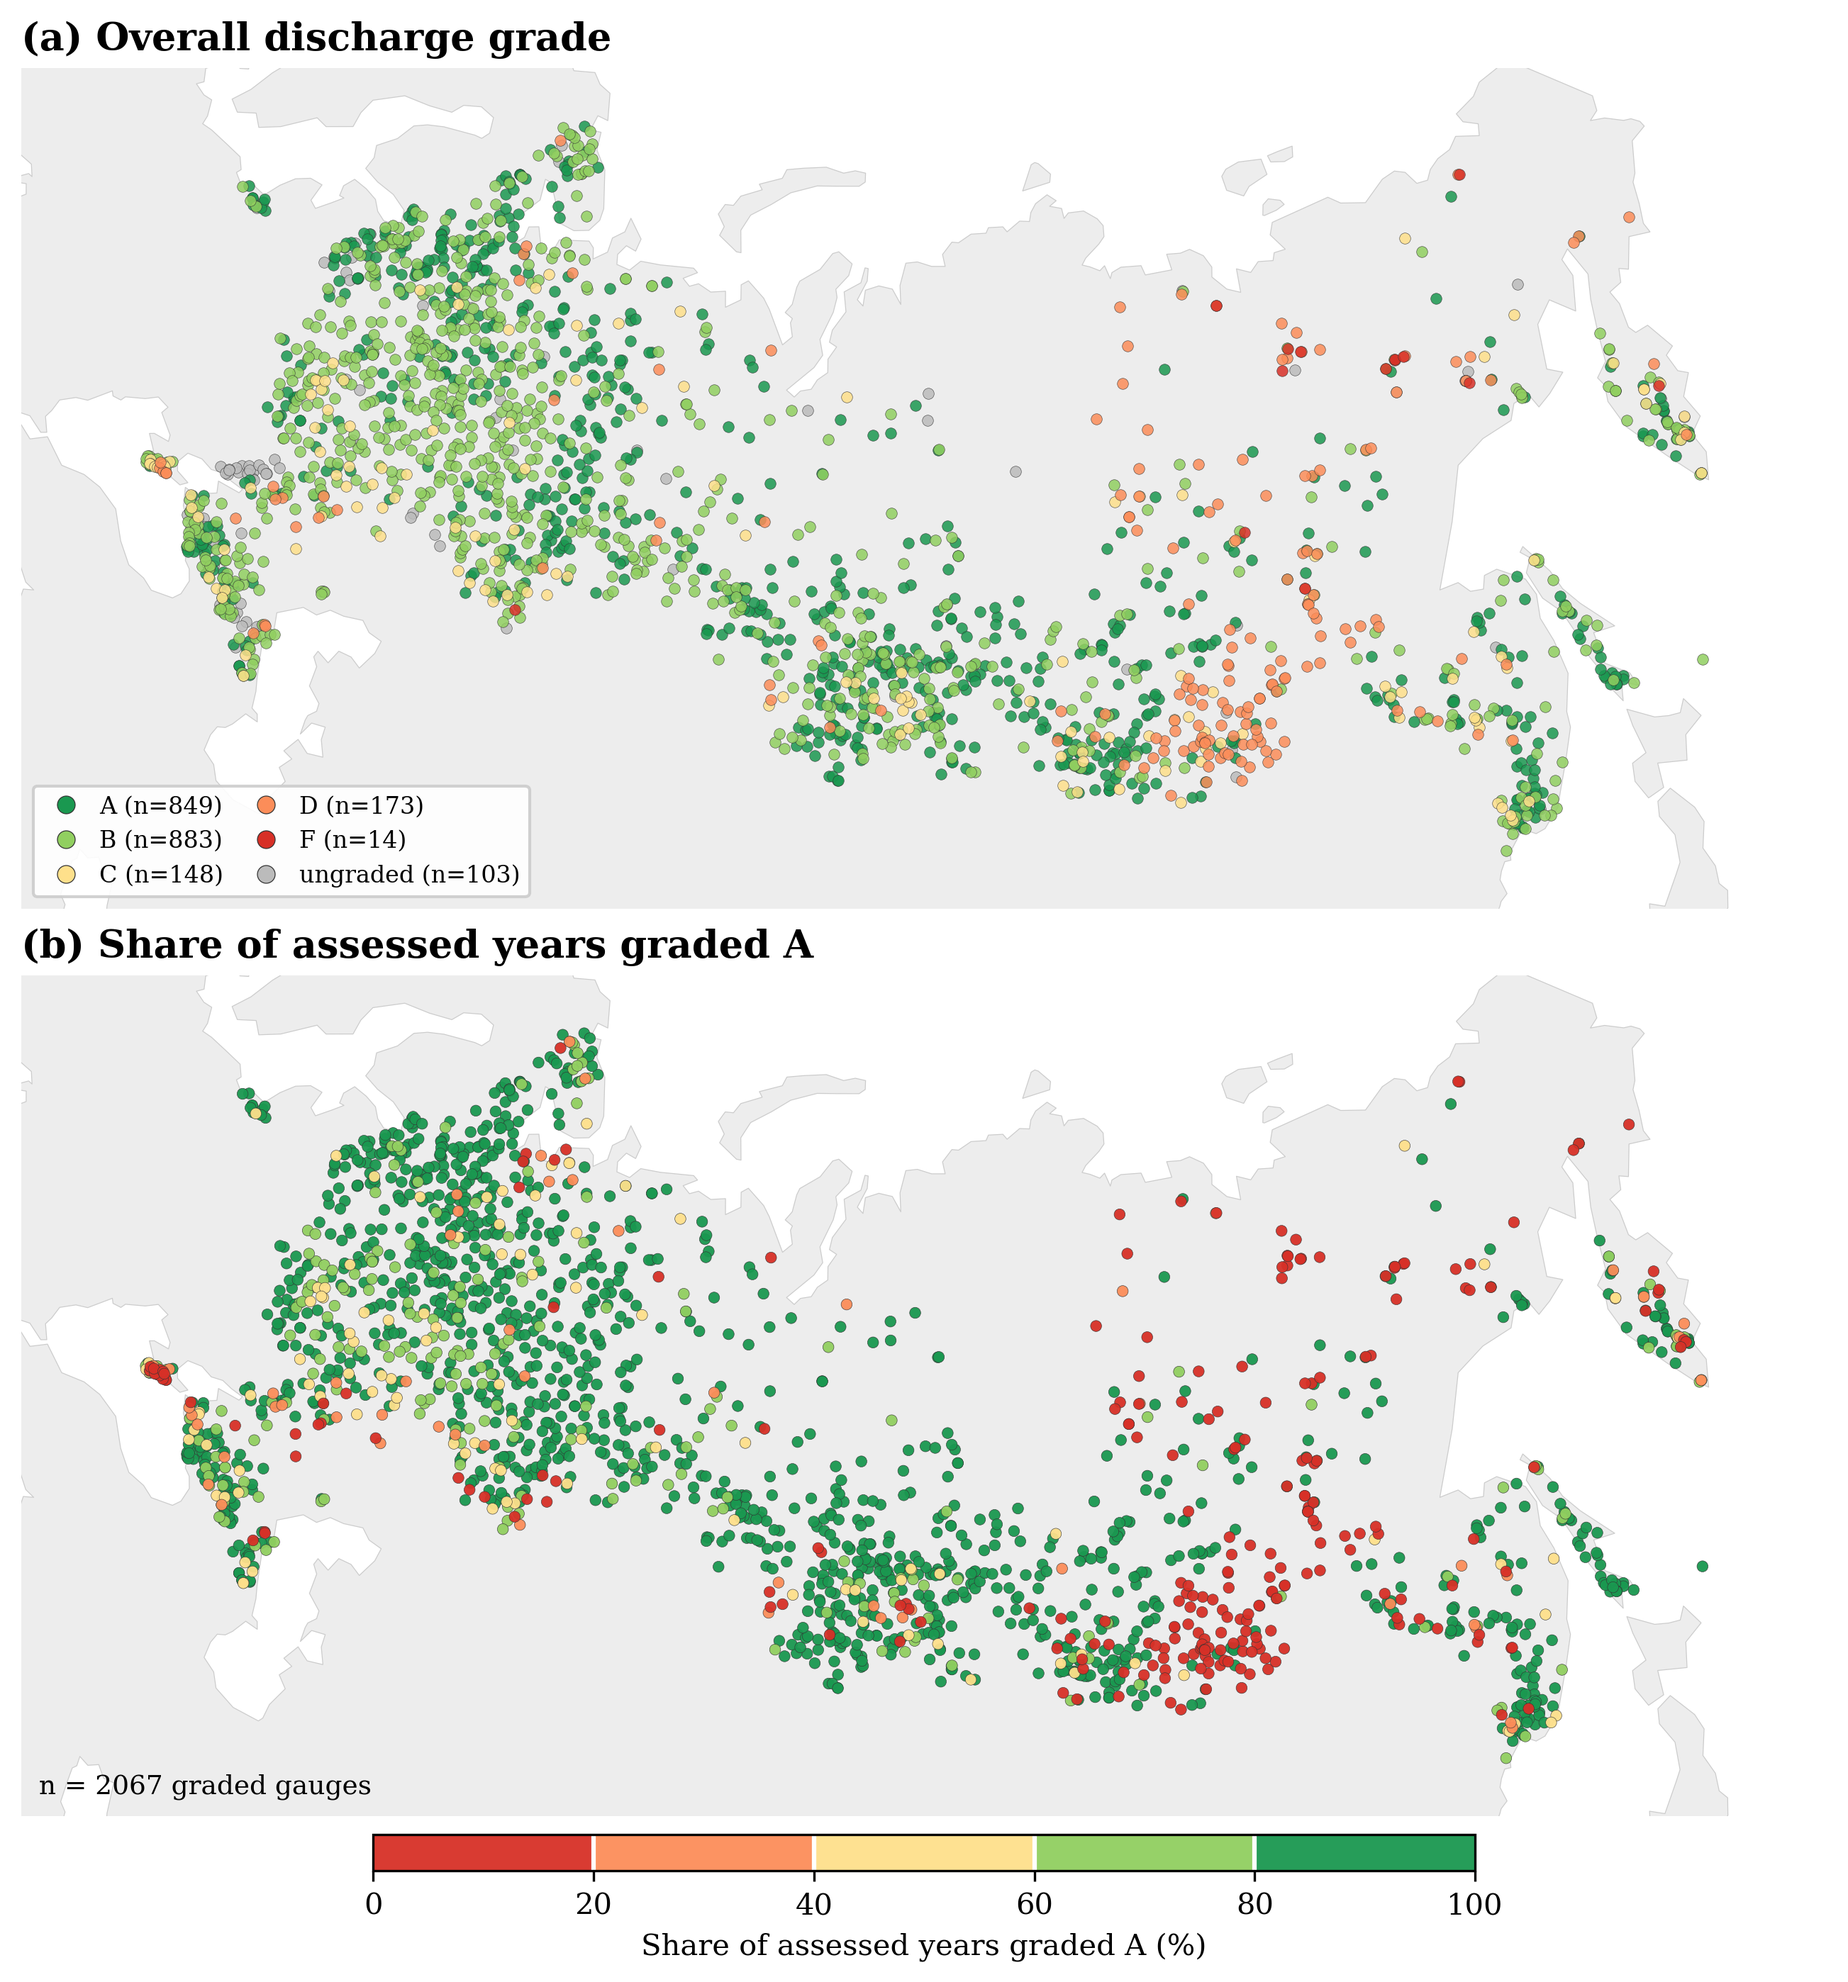
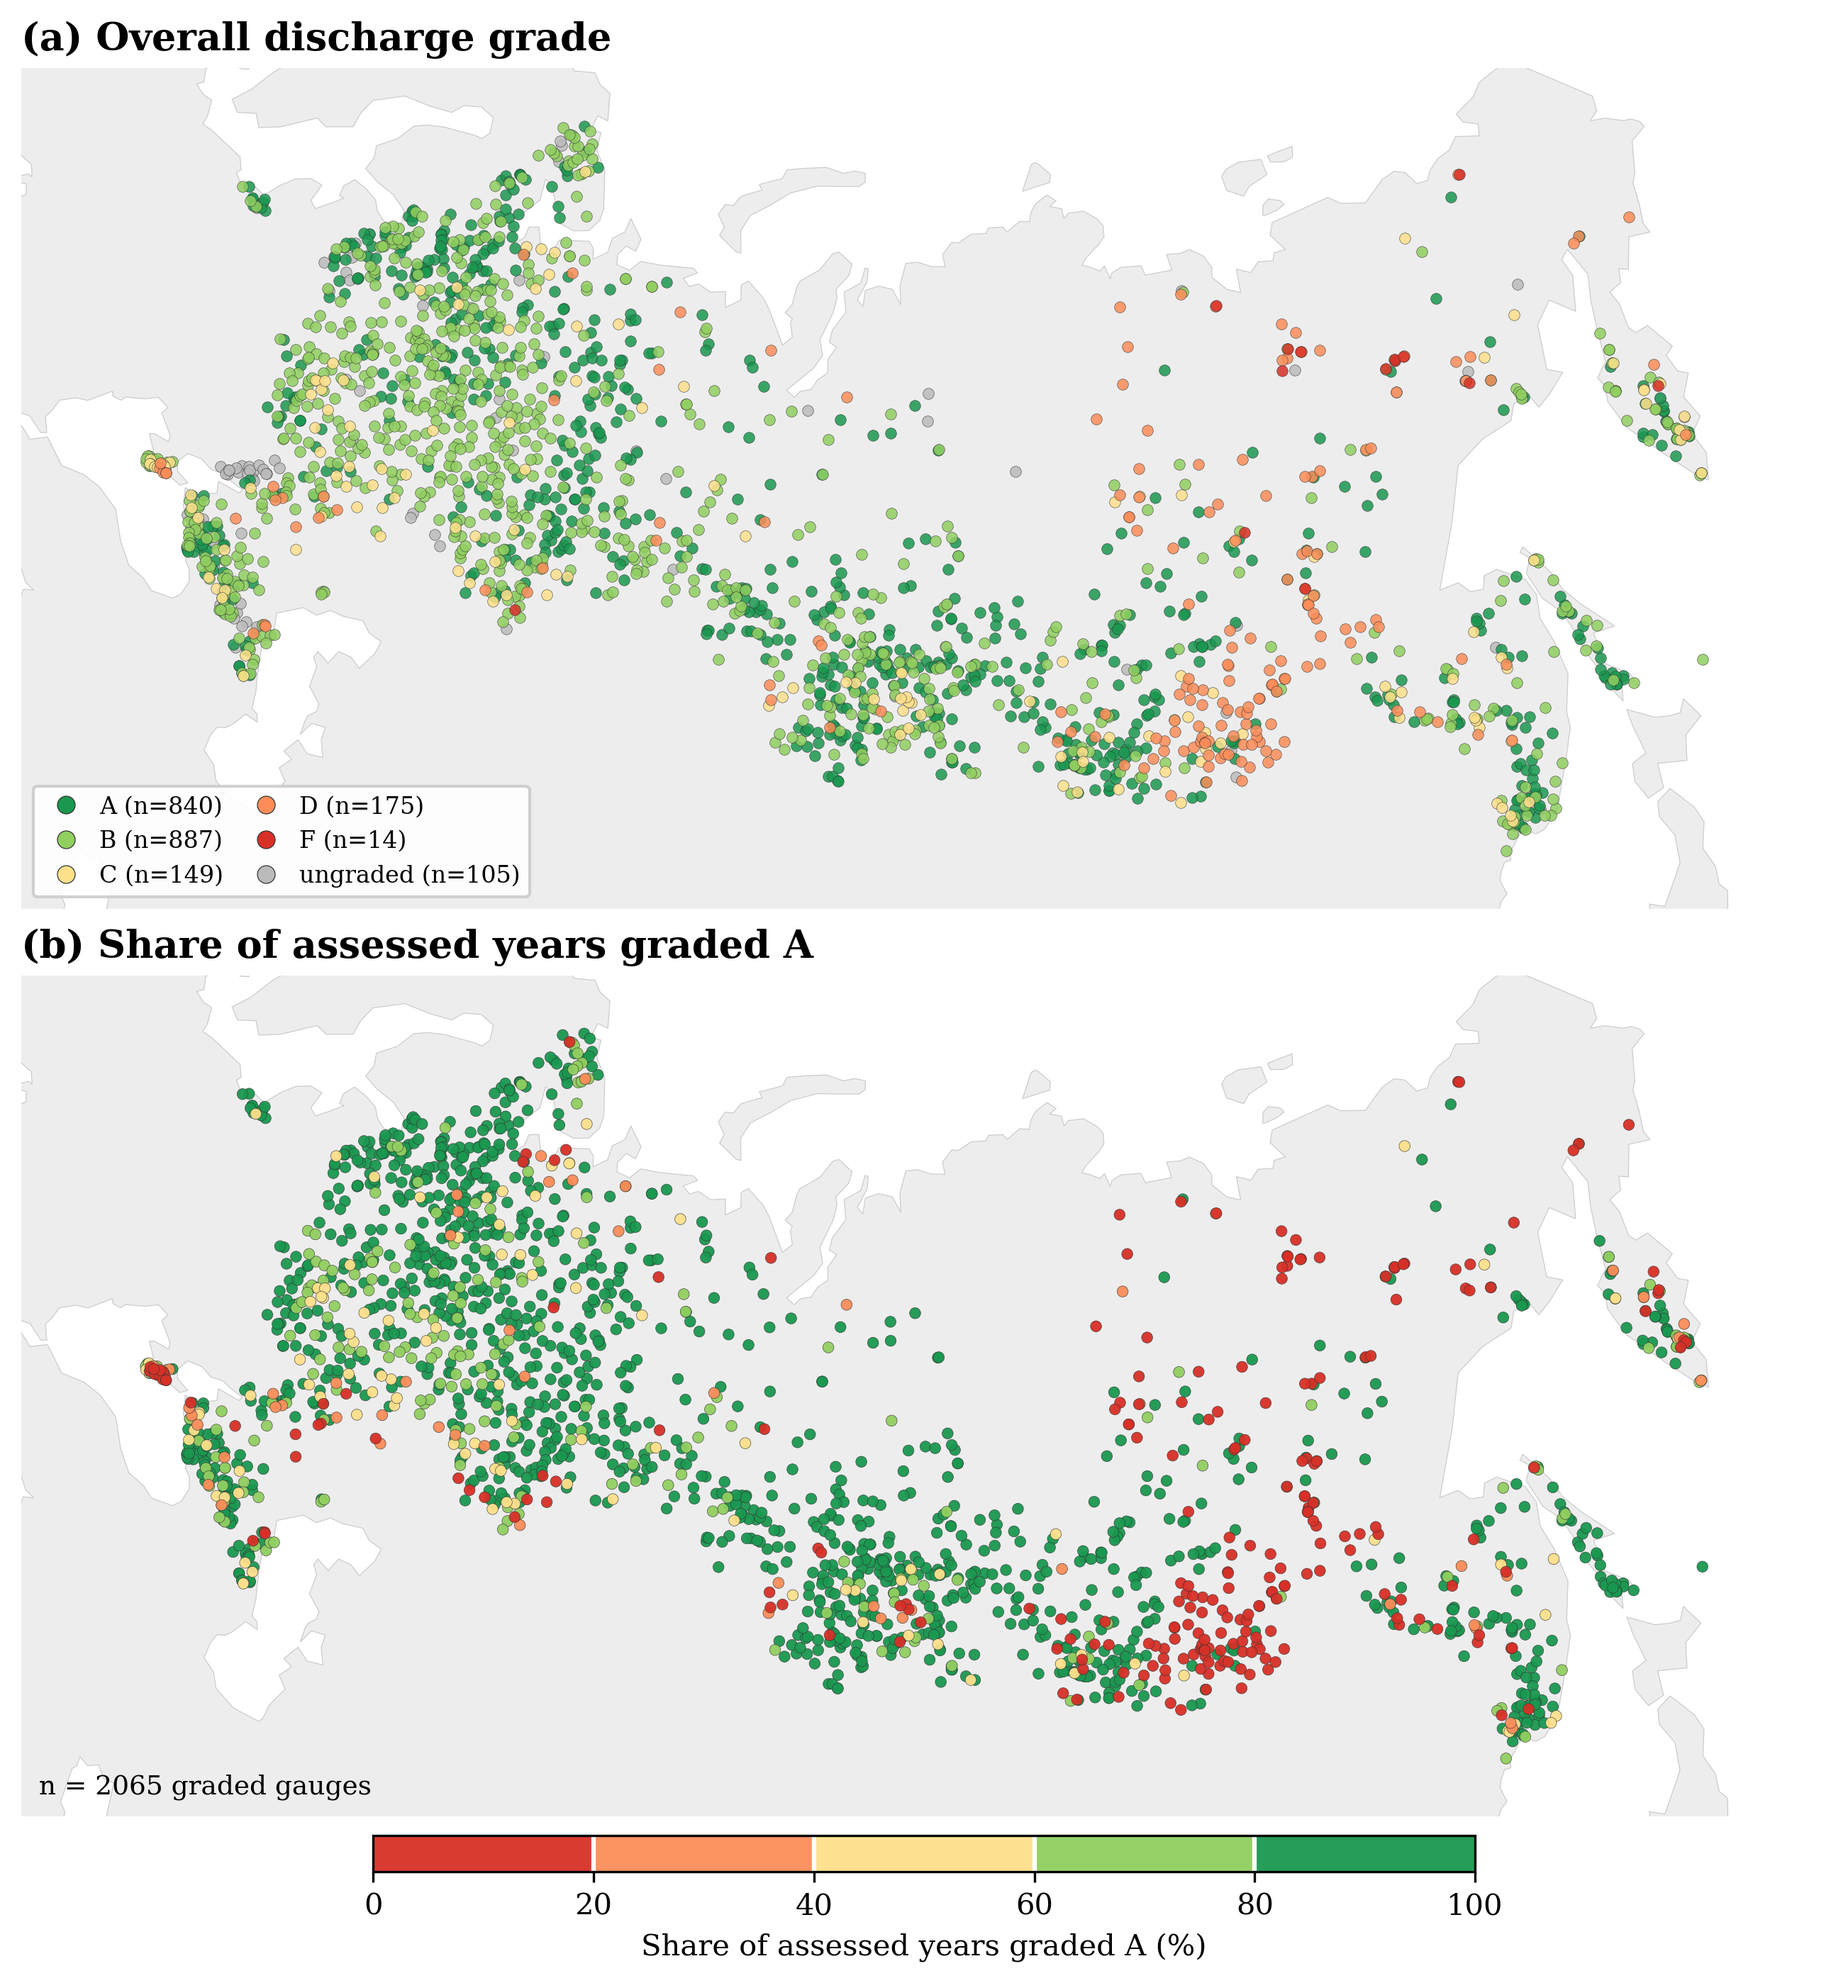
fix(grades): regrade on the released discharge series; lock grade macros
Apply the edge-gap-fill reversal to the pipeline CSVs (new
scripts/revert_edge_gap_fills.py: 14 237 days at 791 gauges, backups under
data/.../_pre_edge_revert_2026-08-23/) so GradeCompound.py, package_dataset.py
and the fill mask all read the same series; rerun grading and
create_year_grades.py. Release year_grades.csv, gauge_summary.csv, README and
SHA256SUMS rebuilt (A 840 / B 887 / C 149 / D 175 / F 14; 2065 graded).
verify_macros.py: grade counts, decentpct and year_grades rows now 3-way
locked via check_macro (105 checks green). Fig 2 script saves once and copies
(md5 parity). Cold-region results refreshed; README/AGENTS_REFERENCE key
numbers updated. Manuscript submodule → a249fec.

Claude-Session: https://claude.ai/code/session_014DevrVqKDBa378SqMM5r8k

diff --git a/scripts/revert_edge_gap_fills.py b/scripts/revert_edge_gap_fills.py
@@ -1,0 +1,84 @@
+"""Revert extrapolated gap fills in the pipeline discharge CSVs (one-time repair, 2026-08-23).
+
+``ParseAisQData.interpolate_discharge`` used ``interpolate(limit=6)``, which filled the
+first six days of *every* gap; 14 172 of the 15 863 filled days were polynomial
+extrapolations into longer gaps rather than bridges. ``scripts/package_dataset.py``
+already reverts them when building ``camels_ru_discharge.nc``; this script applies the
+same rule to the pipeline inputs so that grading (``scripts/GradeCompound.py``) sees the
+released series:
+
+- ``data/CAMELS_RU/HydroData/Compound/<gauge>.csv``   (``q_cms``, ``q_mm_day``)
+- ``data/CAMELS_RU/HydroData/Discharge/<gauge>.csv``  (``q_cms``)
+
+Edge days come from the pre-repair fill mask (``discharge_fill_mask.nc``) and
+``package_dataset._edge_fills``. Every modified file is copied first to
+``data/CAMELS_RU/HydroData/_pre_edge_revert_2026-08-23/``. Re-running after the mask has
+been re-derived (``scripts/derive_discharge_fill_mask.py``) finds no edge days and is a no-op.
+
+Run: ``pixi run python scripts/revert_edge_gap_fills.py``
+"""
+
+from pathlib import Path
+import shutil
+import sys
+
+import numpy as np
+import pandas as pd
+import xarray as xr
+
+ROOT = Path(__file__).resolve().parents[1]
+sys.path.insert(0, str(ROOT))
+from scripts.package_dataset import _edge_fills  # noqa: E402
+
+HYDRO = ROOT / "data" / "CAMELS_RU" / "HydroData"
+MASK = HYDRO / "discharge_fill_mask.nc"
+BACKUP = HYDRO / "_pre_edge_revert_2026-08-23"
+TARGETS = {"Compound": ["q_cms", "q_mm_day"], "Discharge": ["q_cms"]}
+
+
+def _edge_days_per_gauge() -> dict[str, pd.DatetimeIndex]:
+    """Dates whose fill does not bridge two observed days, keyed by gauge id."""
+    with xr.open_dataset(MASK) as ds:
+        filled = ds["fill_mask"].values.astype(bool)
+        gauges = [str(g) for g in ds["gauge_id"].values]
+        dates = pd.DatetimeIndex(ds["time"].values)
+    present = np.zeros_like(filled)
+    for i, gauge in enumerate(gauges):
+        path = HYDRO / "Discharge" / f"{gauge}.csv"
+        if not path.exists():
+            continue
+        q = pd.read_csv(path, index_col="date", parse_dates=True)["q_cms"].reindex(dates)
+        present[i] = q.notna().to_numpy()
+    edge = _edge_fills(present, filled)
+    return {g: dates[edge[i]] for i, g in enumerate(gauges) if edge[i].any()}
+
+
+def main() -> None:
+    """Blank the edge-fill days in both pipeline directories."""
+    edge_days = _edge_days_per_gauge()
+    n_days = sum(len(d) for d in edge_days.values())
+    print(f"{n_days:,} extrapolated fill days at {len(edge_days)} gauges")
+    if not edge_days:
+        return
+    n_files = 0
+    for folder, columns in TARGETS.items():
+        for gauge, days in edge_days.items():
+            path = HYDRO / folder / f"{gauge}.csv"
+            if not path.exists():
+                continue
+            backup = BACKUP / folder / path.name
+            if not backup.exists():
+                backup.parent.mkdir(parents=True, exist_ok=True)
+                shutil.copy2(path, backup)
+            df = pd.read_csv(path, index_col="date", parse_dates=True)
+            hit = df.index.isin(days)
+            for col in columns:
+                if col in df.columns:
+                    df.loc[hit, col] = np.nan
+            df.to_csv(path)
+            n_files += 1
+    print(f"rewrote {n_files} files; backups in {BACKUP.relative_to(ROOT)}")
+
+
+if __name__ == "__main__":
+    main()

diff --git a/scripts/verify_macros.py b/scripts/verify_macros.py
@@ -257,24 +257,10 @@ def main() -> None:
         f"{n_with_data}",
         match=n_with_data == 2170,
     )
-    kv(
-        "ngraded (gauge_summary rows)",
-        "2,067",
-        f"{n_graded}",
-        match=n_graded == 2067,
-    )
-    kv(
-        "nungraded (data but no grade)",
-        "103",
-        f"{n_ungraded}",
-        match=n_ungraded == 103,
-    )
-    kv(
-        "year_grades rows",
-        "2,067",
-        f"{n_year_grades}",
-        match=n_year_grades == 2067,
-    )
+    check_macro(macros, "ngraded", float(n_graded), "{:.0f}")
+    check_macro(macros, "nungraded", float(n_ungraded), "{:.0f}")
+    # year_grades.csv must list exactly the graded gauges of gauge_summary.csv.
+    check_macro(macros, "ngraded", float(n_year_grades), "{:.0f}")
 
     # ERA5-Land temperature gap-fill provenance: \nforcingfillgauges must equal the
     # number of rows shipped in camels_ru_forcing_notes.csv (all domain-edge gauges).
@@ -347,10 +333,11 @@ def main() -> None:
     cols = [c for c in year_grades.columns if c.isdigit()]
     year_grades["all_A"] = year_grades[cols].apply(lambda r: all(v == "A" for v in r.dropna()), axis=1)
     strict_a = int(year_grades["all_A"].sum())
-    kv("nhighquality (Grade A: every year A)", "849", f"{strict_a}", match=strict_a == 849)
+    check_macro(macros, "nhighquality", float(strict_a), "{:.0f}")
     for g in ["A", "B", "C", "D", "F"]:
-        n_g = int((gauge_summary["overall_grade"] == g).sum())
-        kv(f"ngrade{g}", f"{ {'A': 849, 'B': 883, 'C': 148, 'D': 173, 'F': 14}[g] }", f"{n_g}")
+        check_macro(macros, f"ngrade{g}", float((gauge_summary["overall_grade"] == g).sum()), "{:.0f}")
+    n_decent = int(gauge_summary["overall_grade"].isin(["A", "B", "C"]).sum())
+    check_macro(macros, "decentpct", 100.0 * n_decent / n_with_data, "{:.0f}")
 
     section("CATCHMENT AREA STATISTICS (boundaries.gpkg area_km2)")
     areas = boundaries["area_km2"].dropna()

diff --git a/scripts/plot_gauge_reliability.py b/scripts/plot_gauge_reliability.py
@@ -20,6 +20,7 @@ from __future__ import annotations
 
 import argparse
 from pathlib import Path
+import shutil
 import sys
 import warnings
 
@@ -264,9 +265,13 @@ def main() -> None:
     gauge = load_gauges()
     fig = build_figure(gauge)
     outputs = PAPER_OUTPUTS if args.write else (TEST_OUTPUT,)
-    for out in outputs:
+    first, *rest = outputs  # save once, copy: repeated tight saves differ by a few pixels
+    first.parent.mkdir(parents=True, exist_ok=True)
+    fig.savefig(first, dpi=300, bbox_inches="tight")
+    print(f"wrote {first}")
+    for out in rest:
         out.parent.mkdir(parents=True, exist_ok=True)
-        fig.savefig(out, dpi=300, bbox_inches="tight")
+        shutil.copy2(first, out)
         print(f"wrote {out}")
     plt.close(fig)
 

diff --git a/README.md b/README.md
@@ -13,7 +13,7 @@ A CAMELS-standard hydrological dataset for the Russian Federation, covering 3,35
 | Component | Coverage |
 |-----------|----------|
 | Catchments | 3,353 delineated watersheds (manually verified, mean areal error 5.1%) |
-| Discharge | 2,170 gauges, daily, 2008–2023 (849 Grade A, 87% decent quality) |
+| Discharge | 2,170 gauges, daily, 2008–2023 (840 Grade A, 86% decent quality) |
 | Water level | 2,989 gauges, daily, 2008–2023 |
 | Forcing | ERA5-Land (T) + GLEAM4 (PET) + MSWEP v2.8 (P), basin-averaged |
 | Attributes | 288 HydroATLAS variables per catchment (22 primary subset) |

diff --git a/AGENTS_REFERENCE.md b/AGENTS_REFERENCE.md
@@ -84,7 +84,7 @@ and Cursor. `CLAUDE_REFERENCE.md` imports this file (`@AGENTS_REFERENCE.md`).
 | Metric | Value |
 |--------|-------|
 | Catchments | 3,353 (manually verified) |
-| Discharge gauges | 2,170 (849 Grade A, ~87% decent quality) |
+| Discharge gauges | 2,170 (840 Grade A, ~86% decent quality) |
 | Water level gauges | 2,989 |
 | Temporal coverage | 2008–2023 (daily) |
 | Mean areal error | 5.1% (trimmed mean over \|err\| ≤ 100%; median 1.4%; n=3,011 with Roshydromet reference) |
